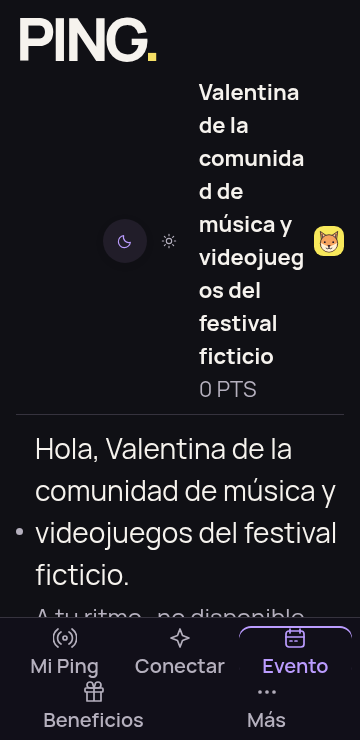
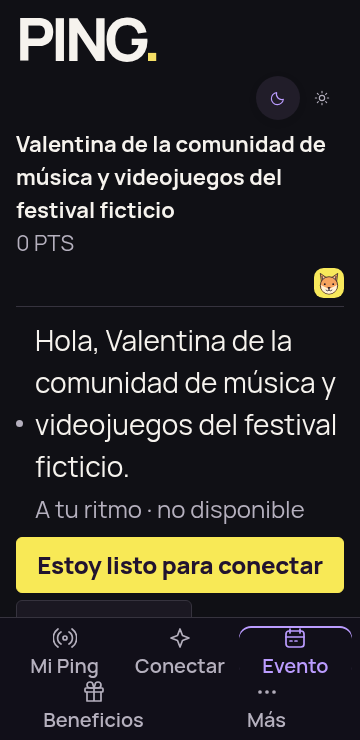
fix: give enlarged Hub aliases their intrinsic width

Changed region(s): [[0.0306, 0.0932, 0.9778, 0.8392], [0.8861, 0.1243, 0.9167, 0.1554], [0.0306, 0.5595, 0.0611, 0.5905]]

diff --git a/src/main/resources/static/css/brand.css b/src/main/resources/static/css/brand.css
@@ -2105,10 +2105,10 @@ body.sofa-hub-page {padding:0;min-height:100dvh;background:var(--ping-bg)}
 .h-desktop-nav {display:flex;align-self:stretch;align-items:stretch;gap:30px}
 .h-desktop-nav a {display:flex;align-items:center;min-height:44px;font-size:13px;font-weight:700;color:var(--ping-muted);text-decoration:none;border-bottom:2px solid transparent}
 .h-desktop-nav a[aria-current] {color:var(--ping-text);border-color:var(--hub-yellow)}
-.h-account {margin-left:auto;display:flex;flex:1 1 12rem;flex-wrap:wrap;justify-content:flex-end;align-items:center;gap:8px 18px;min-width:0;max-width:100%}
+.h-account {margin-left:auto;display:flex;flex:0 1 auto;flex-wrap:wrap;justify-content:flex-end;align-items:center;gap:8px 18px;min-width:0;max-width:100%}
 .h-account .theme-control {gap:0;background:transparent;padding:0;border:0}
 .h-account .theme-control button {min-width:44px;min-height:44px}
-.h-account-name {font-size:13px;flex:0 1 8ch;min-width:0;max-width:100%}
+.h-account-name {font-size:13px;flex:0 1 auto;min-width:0;max-width:100%}
 .h-account-name strong {display:block;overflow-wrap:anywhere}
 .h-account-name span {display:block;color:var(--ping-muted);font-size:11px;font-variant-numeric:tabular-nums}
 .h-avatar {width:36px;height:36px;display:grid;place-items:center;background:var(--ping-primary);color:var(--ping-primary-text);border-radius:50%;font-size:14px;font-weight:800;flex-shrink:0}
@@ -2784,7 +2784,7 @@ body.participant-entry-page {padding-left:0}
 .id-card {border-radius:18px;overflow:hidden;background:var(--ping-surface);border:1px solid var(--ping-border);margin-bottom:14px}
 .id-band {display:flex;flex-wrap:wrap;align-items:center;gap:2px 8px;min-height:40px;padding:8px 14px;background:var(--ping-art-bg);color:var(--ping-art-text);font-size:13px;line-height:1.3}
 .id-band .ping-icon {width:16px;height:16px;color:var(--ping-art-accent)}
-.id-band strong {flex:1 1 8rem;min-width:0;font-weight:800;letter-spacing:.02em;overflow-wrap:anywhere}
+.id-band strong {flex:1 1 8em;min-width:0;font-weight:800;letter-spacing:.02em;overflow-wrap:anywhere}
 .id-band span {margin-left:auto;font-size:12px;opacity:.85}
 .id-body {display:grid;grid-template-columns:76px minmax(0,1fr);gap:14px;align-items:center;padding:12px 14px 4px}
 .id-body .preset-avatar {width:76px;height:76px;margin:0;border-radius:20px;overflow:hidden}

diff --git a/docs/ENCUENTRO_CONFIGURABLE_LLEGADA.md b/docs/ENCUENTRO_CONFIGURABLE_LLEGADA.md
@@ -2,13 +2,13 @@
 
 **Entrega terminada: DEC-056 — acabado móvil.** Copia /workspace/PING, remoto https://github.com/Samge34c/PING.git; base de Claude3755c129cee95f6ece533b52a226c21969c6a52e comprobada sin avances posteriores y árbol inicial limpio. Rama propia fix/mobile-visual-finish, [Issue51](https://github.com/Samge34c/PING/issues/51), [PR52 borrador](https://github.com/Samge34c/PING/pull/52) hacia claude/sweet-ritchie-ja97c7. Sin main/merge/force-push, sin atribuir aprobación a Julián. Toda la cadena y los componentes válidos de Claude conservados.
 
-Respaldos remotos ya contrastados: visual f15c867ac51dd2b2840b37c3db9920fda5d7bc33 ([CI real verde](https://github.com/Samge34c/PING/actions/runs/39659511985)); privacidad366ff5bac0094a63b131fb8d8fe20735c3b4b32a ([CI real verde](https://github.com/Samge34c/PING/actions/runs/39660354770)). El cierre posterior incluye el contexto largo sin clamp y columnas em; HEAD y ejecución exactos se contrastan tras push en PR52/git ls-remote, según la convención de esta continuidad. No queda implementación local pendiente tras ese respaldo.
+Respaldos remotos ya contrastados: visual f15c867ac51dd2b2840b37c3db9920fda5d7bc33 ([CI real verde](https://github.com/Samge34c/PING/actions/runs/39659511985)); privacidad366ff5bac0094a63b131fb8d8fe20735c3b4b32a ([CI real verde](https://github.com/Samge34c/PING/actions/runs/39660354770)). Cierre2fec9496f54c3004b7ed622c88c5be5b2db89619 contrastado y [CI real verde](https://github.com/Samge34c/PING/actions/runs/39662730763). El último ajuste añade ancho intrínseco del alias y8em en el título largo del alta; HEAD y ejecución exactos se contrastan tras push en PR52/git ls-remote, según la convención de esta continuidad. No queda implementación local pendiente tras ese respaldo.
 
-Intereses FINAL: botón831,45–879,45px a390/oscuro/Valentina/SOFA2026/selección0, frente a944,39–992,39 en base y837,25–885,25 en referencia3d66508. Nombres mantienen15px originales; áreas táctiles conservadas. Bandeja3/+N/24/retirada/23 IDs al volver, búsqueda, subgrupos, Conservados y no reañadir tras retirada inactiva comprobados. Categoría de prueba reactivada. Avatar compartido, alta sin JS/edición nativa por teclado e inline1→2; Hub con alias71 caracteres/texto×2 sin recorte. Última prueba larga del contexto:270px de alto/271 de contenido por redondeo, sin overflow oculto; familias en una columna y scroll legible. Registro vigente y capturas: [design-audit](design-audit/README.md), diagnóstico §12. Historial/limitaciones anteriores identificados, sin informes paralelos contradictorios.
+Intereses FINAL: botón831,45–879,45px a390/oscuro/Valentina/SOFA2026/selección0, frente a944,39–992,39 en base y837,25–885,25 en referencia3d66508. Nombres mantienen15px originales; áreas táctiles conservadas. Bandeja3/+N/24/retirada/23 IDs al volver, búsqueda, subgrupos, Conservados y no reañadir tras retirada inactiva comprobados. Categoría de prueba reactivada. Avatar compartido, alta sin JS/edición nativa por teclado e inline1→2; Hub con alias71 caracteres/texto×2 sin recorte. Última prueba larga del contexto:270px de alto/271 de contenido por redondeo, sin overflow oculto; familias en una columna y scroll legible. Revisión VISUAL final detectó ancho8ch que aún partía palabras del alias largo pese a no recortar contenido: corregido con ancho intrínseco,328×132px a360/×2 y ninguna palabra partida por medición Range. Título del alta274px/8em. Nuevas capturas Hub antes/después con mismo saldo17 y estado disponible; las ACTIVE/0 anteriores siguen como historia. Registro vigente y capturas: [design-audit](design-audit/README.md), diagnóstico §12. Historial/limitaciones anteriores identificados, sin informes paralelos contradictorios.
 
 ACTIVE: fallo de sondeo simulado conserva borrador/reintento, llegada ajena no interrumpe escritura; logout REAL/401 retira pista ajena/código/QR y desactiva acciones. Defecto real de credencial escrita que permanecía: live.js la limpia solo al perder sesión; misma sonda antes false/después true. No cambios de backend, permisos, datos de uso, esquema, reglas o escáner.11 pruebas Java dirigidas pasan; Node y diff correctos. Suite completa en CI real, no repetida localmente. JAR final normal empaquetado/135 recursos fuente idénticos incluidas licencias; no clases de prueba ni probes nuevos. Skills versionadas manuales; motor Impeccable no pudo cargar, revisión directa con PRODUCT/DESIGN/guía; hooks apagados, sin reinstalar ni subagentes.
 
-**Datos y servicios del ensayo:** MySQL8.4.11 existente arrancado sin borrar volúmenes, base NUEVA ping_visual_finish_exclusive; demo y bases anteriores intactas. Evento1 ficticio llamado SOFA2026 para conservar su Hub, plano con imagen rotulada FICTICIO (no oficial), punto0,4/0,5. Dos cuentas verificadas por SMTP loopback completaron encuentro1: ambas llegadas, códigos distintos/verificación y confirmación bilaterales,37 cada una; canjes20→17 cada una, recibo1 DELIVERED/2 INCIDENT por organizador, renovar no recobra. Recibo3 es fixture histórica NUEVA solo de presentación, sin ubicación y entregada; NO tercer canje operativo ni cambio de saldos. Participación3 del alta sin JS tiene0 puntos; evento2 ficticio con nombre108 caracteres usado solo para borradores de texto largo. Recursos sobreviven a reinicios de la app. Capturas de códigos personales/QR enmascaradas. Un login repetido de admin alcanzó10/10min; se reutilizó sesión válida, sin borrar contadores.
+**Datos y servicios del ensayo:** MySQL8.4.11 existente arrancado sin borrar volúmenes, base NUEVA ping_visual_finish_exclusive; demo y bases anteriores intactas. Evento1 ficticio llamado SOFA2026 para conservar su Hub, plano con imagen rotulada FICTICIO (no oficial), punto0,4/0,5. Dos cuentas verificadas por SMTP loopback completaron encuentro1: ambas llegadas, códigos distintos/verificación y confirmación bilaterales,37 cada una; canjes20→17 cada una, recibo1 DELIVERED/2 INCIDENT por organizador, renovar no recobra. Recibo3 es fixture histórica NUEVA solo de presentación, sin ubicación y entregada; NO tercer canje operativo ni cambio de saldos. Participación3 del alta sin JS tiene0 puntos; evento2 ficticio con nombre108 caracteres usado solo para borradores de texto largo. Recursos sobreviven a reinicios de la app. Capturas de códigos personales/QR enmascaradas. Un login adicional del harness no completó la navegación; se reutilizó sesión válida, sin cambiar el límite10/10min ni borrar contadores.
 
 App JAR normal propia8096, referencia3755c12 propia8097, SMTP loopback1026 y MySQL conservado3308. Privados/logs/harness/sesiones/correos en /workspace/work/ping-visual, fuera de Git; no son respaldo ni se promete persistencia del executor. GitHub guarda código/evidencia ficticia, MySQL/planos/datos requieren respaldo aparte.
 

diff --git a/docs/design-audit/DIAGNOSTICO.md b/docs/design-audit/DIAGNOSTICO.md
@@ -208,10 +208,19 @@ Primer respaldo visual f15c867ac51dd2b2840b37c3db9920fda5d7bc33, remoto comproba
 
 **Conservados:** desactivar por formulario la categoría real de Anime, ver la selección en Conservados y guardarla, retirarla explícitamente y comprobar que ya no puede añadirse mientras la categoría está inactiva; reactivación posterior por formulario. Solo base de ensayo; sin alterar el catálogo versionado. Lady Gaga está sin categoría: el primer intento de usarla para esta sonda se descartó. Se respetaron autenticación y versiones del editor.
 
-**Texto largo:** se añadió un segundo evento ficticio para probar alias real de71 caracteres y evento de108 caracteres. El contexto de Intereses aún limitaba a3 líneas (a360/×2:101px visibles frente a271 de contenido). Se retiró el clamp y las columnas usan em para seguir el texto: contexto completo y familias en una columna con×2, sin cambiar tipografía, datos o área táctil. La comparación corta FINAL se repitió con cuenta nueva verificada y selección0: botón831,45–879,45px a390/oscuro en el JAR final, manteniendo15px en los nombres;113px menos que la base y6px antes que la referencia histórica.390claro/360×2 del avatar compartido y escritorio1440 también comprobados. La ampliación es simulada, no el ajuste de un teléfono. Un intento adicional de login del administrador alcanzó el límite10/10min; se reutilizó una sesión válida sin borrar contadores ni debilitar la protección.
+**Texto largo:** se añadió un segundo evento ficticio para probar alias real de71 caracteres y evento de108 caracteres. El contexto de Intereses aún limitaba a3 líneas (a360/×2:101px visibles frente a271 de contenido). Se retiró el clamp y las columnas usan em para seguir el texto: contexto completo y familias en una columna con×2, sin cambiar tipografía, datos o área táctil. La comparación corta FINAL se repitió con cuenta nueva verificada y selección0: botón831,45–879,45px a390/oscuro en el JAR final, manteniendo15px en los nombres;113px menos que la base y6px antes que la referencia histórica.390claro/360×2 del avatar compartido y escritorio1440 también comprobados. La ampliación es simulada, no el ajuste de un teléfono. Un intento adicional del harness no completó el login del administrador; no se cambió el límite10/10min ni se borraron contadores, y la sonda continuó reutilizando una sesión válida.
 
 **Evidencia final:** imágenes individuales en evidencia/DEC-056: intereses antes/después390,360claro,3/24/Conservados/contexto largo; avatar antes/después×2 y alta compartida; Hub antes/después ACTIVE y alias largo; recuperación; plano; recibos pendiente/entregado/incidencia/fixture sin ubicación. Se examinaron renders móviles y escritorio. Acción y estado se entienden; no hay portada/decoración nueva que los desplace. Navegación conserva su reserva y scroll; texto largo agrega altura necesaria en lugar de recortarse. Se conservan Manrope, negro/morado/amarillo, recursos locales y estructura Festival Social.
 
 **Checks:** JAR empaquetado con skipTests (no suite repetida);135 recursos fuente idénticos, incluidas licencias en META-INF de la raíz. Java dirigido11/0/0/0; Node --check en interest-selector.js/live.js, diff revisado. CI REAL del código de privacidad366ff5b: [39660354770](https://github.com/Samge34c/PING/actions/runs/39660354770), ambos jobs correctos. La ejecución del cierre posterior se contrasta en PR52 sin repetir localmente la suite completa. JAR normal8096 arrancado con Flyway22/Hibernate validate: saldo17, entrega/fixture anterior y plano persistido/decodificado correctos. Backend Java, tests, pom, workflows, migraciones y recursos de arte intactos respecto a3755c12; solo CSS/JS de presentación y documentación/evidencia.
 
 **Límites vigentes:** no teléfono físico, Safari, cámara, teclado de dispositivo, lector de pantalla ni pruebas con personas. Sin ensayo nuevo de backup/restauración ni Windows operativo. No se modifica /organizer ni se implementan propuestas F08/F14–F16. Revisión visual manual acotada con skills versionadas; motor Impeccable no disponible, no reinstalado, hooks apagados y sin subagentes.
+
+
+### Revisión visual final del alias largo
+
+La última inspección de la imagen mostró un problema que la comprobación scrollWidth no detectaba: el alias completo cabía verticalmente, pero la base8ch lo estrechaba y partía comunidad/videojuegos. Se corrigió la causa con ancho intrínseco tanto en la cuenta del Hub como en el alias. A360/texto×2 ahora usa328px y132px de alto, sin palabras partidas (Range.getClientRects por palabra). La etiqueta larga del evento en el alta usa8em en vez de8rem para que Abierto pueda cambiar de fila al ampliar texto; título274px, sin palabras partidas.
+
+El JAR se volvió a empaquetar solo por esas3 reglas, con skipTests;135 recursos fuente vuelven a coincidir. Se examinaron capturas NUEVAS: Hub corto antes/después con MISMO alias Valentina/saldo17/estado disponible (390normal y360×2), alias71/0puntos y título108 del alta. Las comparaciones ACTIVE/0puntos previas quedan identificadas como checkpoints; la pareja actual usa17/17 en ambas versiones. Cero errores JS. Fotos en evidencia/DEC-056/hub-antes-x2-360, hub-despues-x2-360, hub-alias-largo-antes-x2-360 y hub-alias-largo-x2-360. No se cambió ninguna regla, cuenta, saldo ni estado para esas comparaciones.
+
+Respaldo anterior del cierre2fec9496f54c3004b7ed622c88c5be5b2db89619 y [CI real verde39662730763](https://github.com/Samge34c/PING/actions/runs/39662730763). El último ajuste visual se respalda a continuación; SHA/checks finales en PR52. No repetir la suite local: la ejecución CI del nuevo commit valida el cierre.

diff --git a/docs/design-audit/README.md b/docs/design-audit/README.md
@@ -21,7 +21,7 @@ Es evidencia de un agente con Chromium táctil emulado y datos ficticios aislado
 | Alta e identidad compacta | **Integrado y comprobado** | Alta real con avatar; formularios sin JS y retorno con borrador conservado. No teclado físico ni áreas seguras reales |
 | Intereses compartidos | **Corregido y comprobado** | Botón831,45–879,45px a390, frente a944,39–992,39; directorio con iconos/contadores;3 y24 elegidos, expansión/retirada,23 IDs conservados al volver; inline y Conservados. Sin máximo nuevo |
 | Avatar: etiquetas y pestañas | **Corregido y comprobado** | Amarillo y su marca juntos; pestañas redistribuyen con texto×2 en edición y alta compartidas. Datos/radios completos |
-| Hub y navegación con texto ampliado | **Corregido y comprobado** | Alias/título/acciones cambian de distribución; nombres completos en390/360 y caso largo real. Las etiquetas inferiores ya no se recortan con puntos suspensivos (DEC-055), no es una limitación actual |
+| Hub y navegación con texto ampliado | **Corregido y comprobado** | Alias/título/acciones cambian de distribución; caso largo sin palabras partidas (328px a360/×2), comparación final del Hub con mismo saldo17/estado en ambas versiones. Las etiquetas inferiores ya no se recortan con puntos suspensivos (DEC-055), no es una limitación actual |
 | Recuperación en ACTIVE | **Corregido y comprobado** | Fallo de sondeo simulado conserva borrador y reintenta; cambio ajeno no recarga mientras se escribe; logout real/401 retira pista, códigos/QR y credencial escrita. Cámara real no comprobada |
 | Comprobantes | **Comprobado** | Pendiente, entregado e incidencia por recorridos reales; lugar guardado visible. Sin ubicación: fixture histórica NUEVA, solo prueba de presentación, no tercer canje operativo |
 | Plano con imagen | **Comprobado** | Imagen ficticia cargada por el organizador; marcador, zoom, gesto nativo emulado, resize360, centrado/restablecer y retorno. Persistencia leída tras reinicios de la app; sin ensayo nuevo de backup |
@@ -45,4 +45,4 @@ Es evidencia de un agente con Chromium táctil emulado y datos ficticios aislado
 
 ## Continuidad
 
-Respaldos visual/privacidad contrastados: `f15c867` y `366ff5b`; HEAD puede añadir el cierre de texto largo/evidencia. Consultar el SHA completo y los checks de [PR52](https://github.com/Samge34c/PING/pull/52). Siguiente prioridad: revisión en teléfono físico de texto ampliado, teclado, navegación y cámara/HTTPS con configuración propia, conservando la revisión humana antes del merge. No editar skills ni activar hooks para retomar.
+Respaldos visual/privacidad contrastados: `f15c867` y `366ff5b`; Cierre2fec949 con CI verde; HEAD añade el ajuste de ancho intrínseco del alias largo/evidencia final. Consultar el SHA completo y los checks de [PR52](https://github.com/Samge34c/PING/pull/52). Siguiente prioridad: revisión en teléfono físico de texto ampliado, teclado, navegación y cámara/HTTPS con configuración propia, conservando la revisión humana antes del merge. No editar skills ni activar hooks para retomar.
